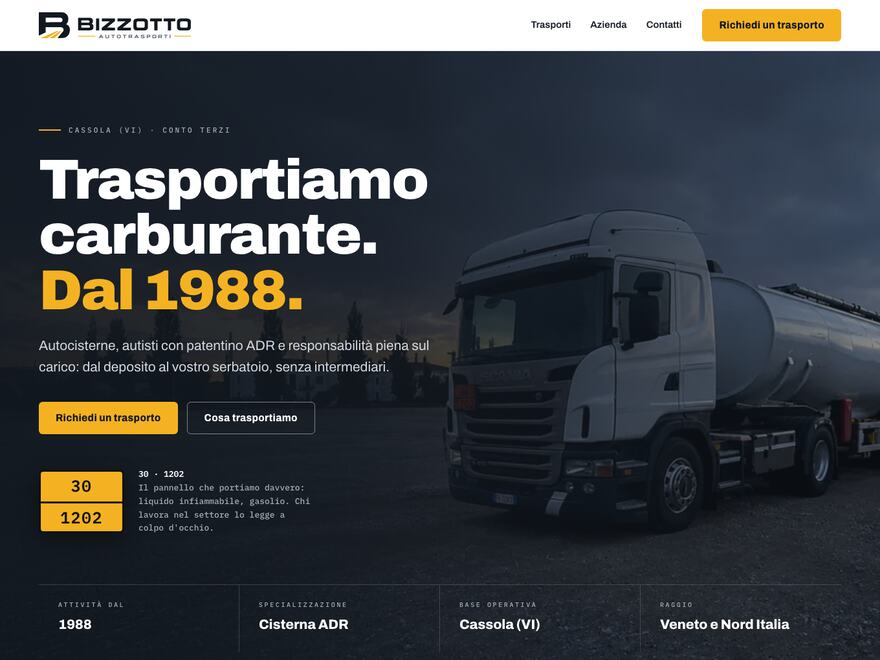
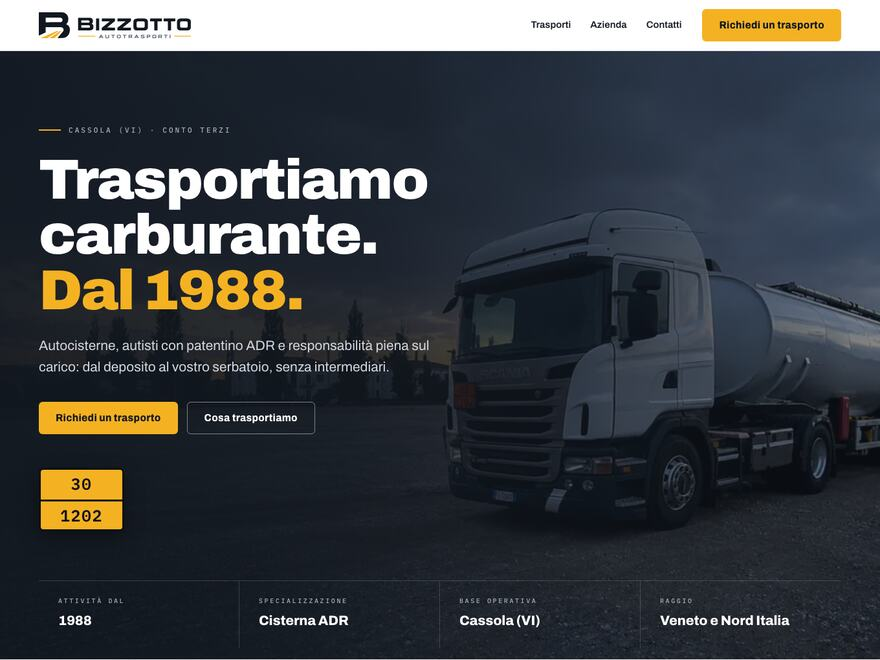
Tre siti: via il rumore, restano i fatti
Tolto quello che ripeteva, decorava o si difendeva:

- «Cosa serve per avere un preventivo» dalla pagina Trasporti: erano
  le stesse cinque voci che il modulo gia' chiede
- «In sintesi» dalla pagina Azienda: ridiceva la pagina in tre righe
- dieci pillole decorative sotto i servizi della Pannello, che
  ripetevano a parole il testo accanto
- i tre sottotitoli dei servizi, che riformulavano il titolo
- la spiegazione accanto al pannello ADR in apertura: il segno basta
- la voce «domani» della cronologia, che parlava del futuro senza dire
  niente
- le frasi che difendono invece di informare («niente rendering»,
  «se una fotografia non ritrae la nostra flotta»)

Altezza renderizzata: Azienda da 2678 a 2112 px (-21%), Trasporti da
3482 a 3017 (-13%), Notturno Azienda da 2491 a 1984 (-20%).

Correzione di rotta durante il lavoro: avevo tolto ritiro e consegna
dal modulo in apertura, ma il titolo della sezione promette «cosa, da
dove, a dove». La semplificazione rompeva il testo, quindi i campi
sono stati rimessi e ho tagliato altrove.

Ogni rimozione taglia un blocco bilanciato contando l'annidamento dei
tag; div, section, p e ol verificati pari su tutte e dodici le pagine.

diff --git a/sito/pannello/index.html b/sito/pannello/index.html
@@ -265,7 +265,7 @@ footer a:hover{color:var(--amber)}
     </div>
     <div class="hero-panel">
       <div class="adr" aria-label="Pannello ADR: codice 30, numero ONU 1202"><span>30</span><span>1202</span></div>
-      <p><b>30 · 1202</b><br>Il pannello che portiamo davvero: liquido infiammabile, gasolio. Chi lavora nel settore lo legge a colpo d'occhio.</p>
+      
     </div>
     <dl class="facts">
       <div><dt>Attività dal</dt><dd>1988</dd></div>
@@ -281,31 +281,31 @@ footer a:hover{color:var(--amber)}
     <div class="sec-head">
       <span class="eyebrow">Servizi</span>
       <h2>Tre cose, fatte bene.</h2>
-      <p>Non facciamo trasporto generico. Muoviamo prodotti petroliferi in cisterna per operatori energetici, distributori e aziende con deposito interno.</p>
+      <p>Prodotti petroliferi in cisterna, per operatori energetici, distributori e aziende con deposito interno.</p>
     </div>
     <div class="svc">
       <article class="svc-row">
         <span class="svc-code">UN 1202</span>
-        <div><h3>Gasolio e prodotti petroliferi</h3><p>Il nostro lavoro quotidiano.</p></div>
+        <div><h3>Gasolio e prodotti petroliferi</h3></div>
         <div>
           <p>Ritiro da deposito o raffineria e consegna a distributori stradali, aziende agricole, cantieri e depositi privati. Quantità e tempi concordati per ogni viaggio.</p>
-          <ul><li>Carico e scarico presidiato</li><li>Documento di trasporto</li><li>Consegne programmate</li></ul>
+          
         </div>
       </article>
       <article class="svc-row">
         <span class="svc-code">ADR</span>
-        <div><h3>Merci pericolose</h3><p>Autorizzazioni e procedure.</p></div>
+        <div><h3>Merci pericolose</h3></div>
         <div>
           <p>Autisti abilitati ADR, mezzi omologati e procedure di sicurezza su ogni fase del carico. La parte del lavoro che non si vede è quella che vi mette al riparo.</p>
-          <ul><li>Patentino ADR</li><li>Consulente ADR</li><li>Procedure di emergenza</li></ul>
+          
         </div>
       </article>
       <article class="svc-row">
         <span class="svc-code">TRACCIA</span>
-        <div><h3>Tracciabilità della consegna</h3><p>Sapere sempre dove sta il prodotto.</p></div>
+        <div><h3>Tracciabilità della consegna</h3></div>
         <div>
           <p>Documentazione completa per ogni viaggio e riscontro diretto sullo stato della consegna. Un solo interlocutore, dalla richiesta alla consegna.</p>
-          <ul><li>Documentazione per viaggio</li><li>Referente unico</li><li>Riscontro sulle consegne</li></ul>
+          
         </div>
       </article>
     </div>
@@ -321,7 +321,7 @@ footer a:hover{color:var(--amber)}
       <ul class="timeline">
         <li><b>1988</b><span>Inizio dell'attività a Cassola, in provincia di Vicenza.</span></li>
         <li><b>OGGI</b><span>Flotta di autocisterne dedicata al trasporto di prodotti petroliferi conto terzi.</span></li>
-        <li><b>DOMANI</b><span>Gli stessi mezzi e le stesse regole, per i vettori energetici che verranno.</span></li>
+        
       </ul>
     </div>
     <figure class="ph"><picture><source type="image/webp" srcset="../img/montagne-800.webp 800w, ../img/montagne-1200.webp 1200w, ../img/montagne-1600.webp 1600w" sizes="(max-width:900px) 100vw, 60vw"><img src="../img/montagne-1600.jpg" srcset="../img/montagne-800.jpg 800w, ../img/montagne-1200.jpg 1200w, ../img/montagne-1600.jpg 1600w" sizes="(max-width:900px) 100vw, 60vw" alt="La flotta nel piazzale, davanti alle Prealpi innevate" width="1600" height="698" loading="lazy" decoding="async"></picture></figure>
@@ -333,7 +333,7 @@ footer a:hover{color:var(--amber)}
     <div class="sec-head">
       <span class="eyebrow">Flotta</span>
       <h2>I mezzi, davvero.</h2>
-      <p>Niente rendering, niente foto d'archivio: le autocisterne che arrivano da voi sono queste.</p>
+      <p>Sono i mezzi che arrivano da voi.</p>
     </div>
     <figure class="ph"><picture><source type="image/webp" srcset="../img/frontali-800.webp 800w, ../img/frontali-1200.webp 1200w, ../img/frontali-1600.webp 1600w" sizes="(max-width:900px) 100vw, 60vw"><img src="../img/frontali-1600.jpg" srcset="../img/frontali-800.jpg 800w, ../img/frontali-1200.jpg 1200w, ../img/frontali-1600.jpg 1600w" sizes="(max-width:900px) 100vw, 60vw" alt="I frontali dei mezzi allineati, con il cielo al tramonto" width="1600" height="459" loading="lazy" decoding="async"></picture></figure>
     <div class="fleet-grid">

diff --git a/sito/tecnico/index.html b/sito/tecnico/index.html
@@ -294,8 +294,8 @@ footer a{text-decoration:none}
   <div class="wrap sec-grid">
     <div class="sec-num">03<br>Mezzi</div>
     <div>
-      <h2>Fotografie dei nostri mezzi, non d'archivio</h2>
-      <p>Se una fotografia non ritrae la nostra flotta, non compare su questo sito.</p>
+      <h2>I nostri mezzi</h2>
+      <p>Sono i mezzi che arrivano da voi.</p>
       <div class="trio">
         <figure class="ph"><picture><source type="image/webp" srcset="../img/frontali-800.webp 800w, ../img/frontali-1200.webp 1200w, ../img/frontali-1600.webp 1600w" sizes="(max-width:900px) 100vw, 60vw"><img src="../img/frontali-1600.jpg" srcset="../img/frontali-800.jpg 800w, ../img/frontali-1200.jpg 1200w, ../img/frontali-1600.jpg 1600w" sizes="(max-width:900px) 100vw, 60vw" alt="I frontali dei mezzi allineati, con il cielo al tramonto" width="1600" height="459" loading="lazy" decoding="async"></picture></figure>
         <figure class="ph"><picture><source type="image/webp" srcset="../img/manicotti-800.webp 800w, ../img/manicotti-1200.webp 1200w" sizes="(max-width:900px) 100vw, 60vw"><img src="../img/manicotti-1200.jpg" srcset="../img/manicotti-800.jpg 800w, ../img/manicotti-1200.jpg 1200w" sizes="(max-width:900px) 100vw, 60vw" alt="Manicotto di scarico collegato al pozzetto, sotto la cisterna" width="1200" height="900" loading="lazy" decoding="async"></picture></figure>

diff --git a/sito/notturno/azienda.html b/sito/notturno/azienda.html
@@ -262,18 +262,6 @@ footer{border-top:1px solid rgba(255,255,255,.12);padding:52px 0 34px;color:var(
     dice due cose a chi sa leggerlo: liquido infiammabile, gasolio. Chi lavora nel settore
     lo capisce a colpo d'occhio, ed è il motivo per cui lo abbiamo messo anche qui.</div>
 
-    <hr class="pg-sep">
-
-    <h2>In sintesi</h2>
-    <ol class="pg-steps" style="margin-top:30px">
-      <li><b>1988</b><div><h3>L'inizio</h3>
-        <p>Nasce l'attività a Cassola, in provincia di Vicenza.</p></div></li>
-      <li><b>Oggi</b><div><h3>Il mestiere</h3>
-        <p>Flotta di autocisterne dedicata al trasporto di prodotti petroliferi conto terzi,
-        per committenti che tornano.</p></div></li>
-      <li><b>Domani</b><div><h3>La direzione</h3>
-        <p>Gli stessi mezzi e le stesse regole, per i vettori energetici che verranno.</p></div></li>
-    </ol>
     <p style="margin-top:34px"><a class="pg-send" href="contatti.html">Richiedi un trasporto</a></p>
   </div>
 </section>

diff --git a/sito/pannello/azienda.html b/sito/pannello/azienda.html
@@ -303,18 +303,6 @@ footer a:hover{color:var(--amber)}
     dice due cose a chi sa leggerlo: liquido infiammabile, gasolio. Chi lavora nel settore
     lo capisce a colpo d'occhio, ed è il motivo per cui lo abbiamo messo anche qui.</div>
 
-    <hr class="pg-sep">
-
-    <h2>In sintesi</h2>
-    <ol class="pg-steps" style="margin-top:30px">
-      <li><b>1988</b><div><h3>L'inizio</h3>
-        <p>Nasce l'attività a Cassola, in provincia di Vicenza.</p></div></li>
-      <li><b>Oggi</b><div><h3>Il mestiere</h3>
-        <p>Flotta di autocisterne dedicata al trasporto di prodotti petroliferi conto terzi,
-        per committenti che tornano.</p></div></li>
-      <li><b>Domani</b><div><h3>La direzione</h3>
-        <p>Gli stessi mezzi e le stesse regole, per i vettori energetici che verranno.</p></div></li>
-    </ol>
     <p style="margin-top:34px"><a class="pg-send" href="contatti.html">Richiedi un trasporto</a></p>
   </div>
 </section>

diff --git a/sito/tecnico/azienda.html b/sito/tecnico/azienda.html
@@ -263,18 +263,6 @@ footer a{text-decoration:none}
     dice due cose a chi sa leggerlo: liquido infiammabile, gasolio. Chi lavora nel settore
     lo capisce a colpo d'occhio, ed è il motivo per cui lo abbiamo messo anche qui.</div>
 
-    <hr class="pg-sep">
-
-    <h2>In sintesi</h2>
-    <ol class="pg-steps" style="margin-top:30px">
-      <li><b>1988</b><div><h3>L'inizio</h3>
-        <p>Nasce l'attività a Cassola, in provincia di Vicenza.</p></div></li>
-      <li><b>Oggi</b><div><h3>Il mestiere</h3>
-        <p>Flotta di autocisterne dedicata al trasporto di prodotti petroliferi conto terzi,
-        per committenti che tornano.</p></div></li>
-      <li><b>Domani</b><div><h3>La direzione</h3>
-        <p>Gli stessi mezzi e le stesse regole, per i vettori energetici che verranno.</p></div></li>
-    </ol>
     <p style="margin-top:34px"><a class="pg-send" href="contatti.html">Richiedi un trasporto</a></p>
   </div>
 </section>

diff --git a/sito/notturno/trasporti.html b/sito/notturno/trasporti.html
@@ -273,17 +273,6 @@ footer{border-top:1px solid rgba(255,255,255,.12);padding:52px 0 34px;color:var(
     </div>
 
     <hr class="pg-sep">
-
-    <h2>Cosa serve per avere un preventivo</h2>
-    <p style="color:inherit;opacity:.72;max-width:56ch;margin:18px 0 0">Cinque informazioni.
-    Con queste rispondiamo con un prezzo, non con una richiesta di altre informazioni.</p>
-    <ul class="pg-facts" style="margin-top:30px">
-      <li><span>Prodotto</span><b>Quale carburante</b></li>
-      <li><span>Quantità</span><b>Litri per viaggio</b></li>
-      <li><span>Ritiro</span><b>Deposito o raffineria</b></li>
-      <li><span>Consegna</span><b>Indirizzo e tipo di scarico</b></li>
-      <li><span>Tempi</span><b>Data o frequenza</b></li>
-    </ul>
     <p style="margin-top:34px"><a class="pg-send" href="contatti.html">Richiedi un trasporto</a></p>
   </div>
 </section>

diff --git a/sito/pannello/trasporti.html b/sito/pannello/trasporti.html
@@ -314,17 +314,6 @@ footer a:hover{color:var(--amber)}
     </div>
 
     <hr class="pg-sep">
-
-    <h2>Cosa serve per avere un preventivo</h2>
-    <p style="color:inherit;opacity:.72;max-width:56ch;margin:18px 0 0">Cinque informazioni.
-    Con queste rispondiamo con un prezzo, non con una richiesta di altre informazioni.</p>
-    <ul class="pg-facts" style="margin-top:30px">
-      <li><span>Prodotto</span><b>Quale carburante</b></li>
-      <li><span>Quantità</span><b>Litri per viaggio</b></li>
-      <li><span>Ritiro</span><b>Deposito o raffineria</b></li>
-      <li><span>Consegna</span><b>Indirizzo e tipo di scarico</b></li>
-      <li><span>Tempi</span><b>Data o frequenza</b></li>
-    </ul>
     <p style="margin-top:34px"><a class="pg-send" href="contatti.html">Richiedi un trasporto</a></p>
   </div>
 </section>

diff --git a/sito/tecnico/trasporti.html b/sito/tecnico/trasporti.html
@@ -274,17 +274,6 @@ footer a{text-decoration:none}
     </div>
 
     <hr class="pg-sep">
-
-    <h2>Cosa serve per avere un preventivo</h2>
-    <p style="color:inherit;opacity:.72;max-width:56ch;margin:18px 0 0">Cinque informazioni.
-    Con queste rispondiamo con un prezzo, non con una richiesta di altre informazioni.</p>
-    <ul class="pg-facts" style="margin-top:30px">
-      <li><span>Prodotto</span><b>Quale carburante</b></li>
-      <li><span>Quantità</span><b>Litri per viaggio</b></li>
-      <li><span>Ritiro</span><b>Deposito o raffineria</b></li>
-      <li><span>Consegna</span><b>Indirizzo e tipo di scarico</b></li>
-      <li><span>Tempi</span><b>Data o frequenza</b></li>
-    </ul>
     <p style="margin-top:34px"><a class="pg-send" href="contatti.html">Richiedi un trasporto</a></p>
   </div>
 </section>
